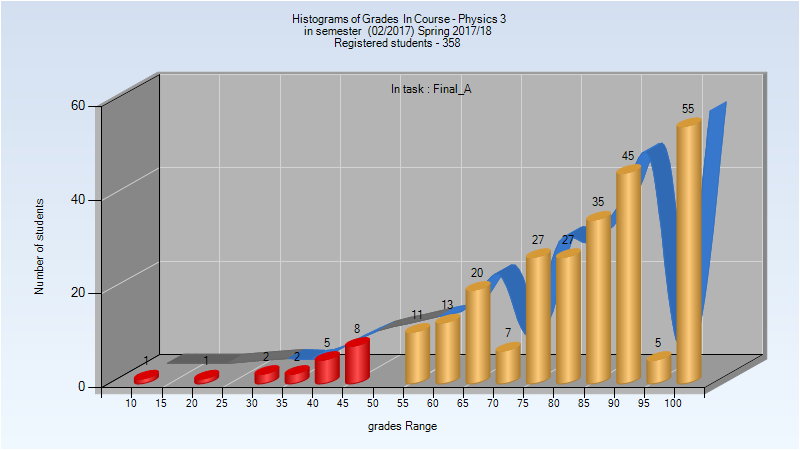
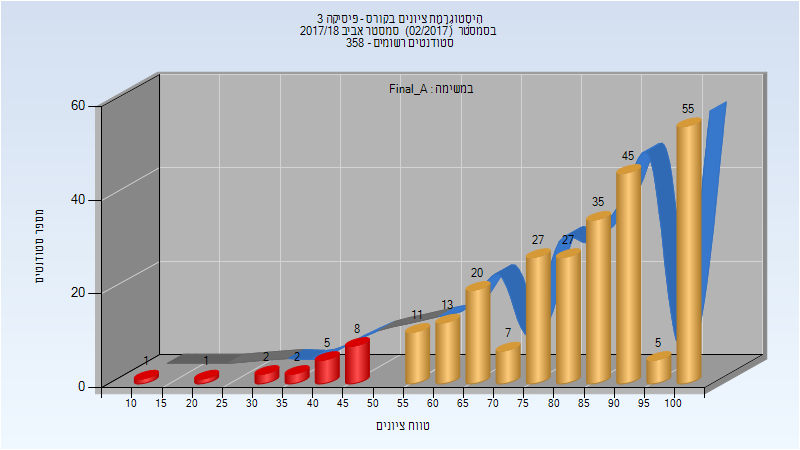
Deploy michael-maltsev/technion-histograms to github.com/michael-maltsev/technion-histograms.git:gh-pages

diff --git a/324567/index.html b/324567/index.html
@@ -72,6 +72,59 @@
 </tr>
 </tbody>
 </table>
+<h2>אביב 2018</h2>
+<h3>סופי מועד א'</h3>
+<p><img src="201702/Final_A.png" alt="201702 Final_A" /></p>
+<table>
+<thead>
+<tr>
+<th>סטודנטים</th>
+<th>עברו/נכשלו</th>
+<th>אחוז עוברים</th>
+<th>ציון מינימלי</th>
+<th>ציון מקסימלי</th>
+<th>ממוצע</th>
+<th>חציון</th>
+</tr>
+</thead>
+<tbody>
+<tr>
+<td>38</td>
+<td>38/0</td>
+<td>100</td>
+<td>92</td>
+<td>98</td>
+<td>95.184</td>
+<td>95</td>
+</tr>
+</tbody>
+</table>
+<h3>סופי</h3>
+<p><img src="201702/Finals.png" alt="201702 Finals" /></p>
+<table>
+<thead>
+<tr>
+<th>סטודנטים</th>
+<th>עברו/נכשלו</th>
+<th>אחוז עוברים</th>
+<th>ציון מינימלי</th>
+<th>ציון מקסימלי</th>
+<th>ממוצע</th>
+<th>חציון</th>
+</tr>
+</thead>
+<tbody>
+<tr>
+<td>38</td>
+<td>38/0</td>
+<td>100</td>
+<td>92</td>
+<td>98</td>
+<td>95.184</td>
+<td>95</td>
+</tr>
+</tbody>
+</table>
 <h2>חורף 2019-2020</h2>
 <h3>סופי מועד א'</h3>
 <p><img src="201901/Final_A.png" alt="201901 Final_A" /></p>

diff --git a/324567/README.md b/324567/README.md
@@ -18,6 +18,24 @@
 | ---- | ---- | ---- | ---- | ---- | ---- | ---- |
 | 23 | 23/0 | 100 | 93 | 98 | 95.696 | 96 |
 
+## אביב 2018
+
+### סופי מועד א'
+
+![201702 Final_A](201702/Final_A.png)
+
+| סטודנטים | עברו/נכשלו | אחוז עוברים | ציון מינימלי | ציון מקסימלי | ממוצע | חציון |
+| ---- | ---- | ---- | ---- | ---- | ---- | ---- |
+| 38 | 38/0 | 100 | 92 | 98 | 95.184 | 95 |
+
+### סופי
+
+![201702 Finals](201702/Finals.png)
+
+| סטודנטים | עברו/נכשלו | אחוז עוברים | ציון מינימלי | ציון מקסימלי | ממוצע | חציון |
+| ---- | ---- | ---- | ---- | ---- | ---- | ---- |
+| 38 | 38/0 | 100 | 92 | 98 | 95.184 | 95 |
+
 ## חורף 2019-2020
 
 ### סופי מועד א'
